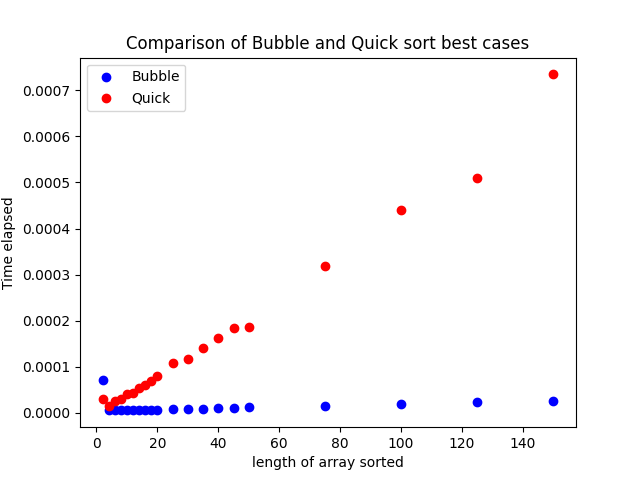
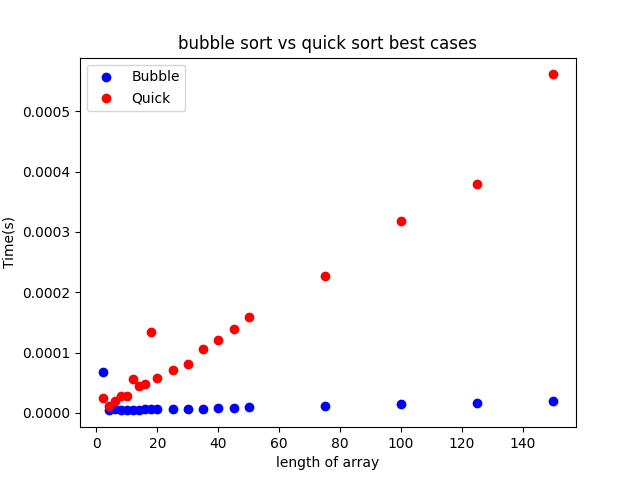
ex2 done

diff --git a/Lab03/ex2.py b/Lab03/ex2.py
@@ -43,25 +43,25 @@ for x in range(20):
     averageQuick.append(timeit.timeit(lambda: quickSort(test2,0,len(test2)-1), number=1))
 plt.scatter(choices,bestBubble,color = 'blue')
 plt.scatter(choices,averageQuick,color = 'red')
-plt.xlabel("length of array sorted")
-plt.ylabel("Time elapsed")
-plt.title("Comparison of Bubble and Quick sort best cases")
+plt.xlabel("length of array")
+plt.ylabel("Time(s)")
+plt.title("bubble sort vs quick sort best cases")
 plt.legend(["Bubble","Quick"])
 plt.savefig("ex2.bestCases.png")
 plt.clf()
 plt.scatter(choices,averageBubble,color = 'blue')
 plt.scatter(choices,averageQuick,color = 'red')
-plt.xlabel("length of array sorted")
-plt.ylabel("Time elapsed")
-plt.title("Comparison of Bubble and Quick sort average cases")
+plt.xlabel("length of array")
+plt.ylabel("Time (s)")
+plt.title("bubble sort vs quick sort average cases")
 plt.legend(["Bubble","Quick"])
 plt.savefig("ex2.averageCases.png")
 plt.clf()
 plt.scatter(choices,worstBubble,color = 'blue')
 plt.scatter(choices,worstQuick,color = 'red')
-plt.xlabel("length of array sorted")
-plt.ylabel("Time elapsed")
-plt.title("Comparison of Bubble and Quick sort worst cases")
+plt.xlabel("length of array")
+plt.ylabel("Time(S)")
+plt.title("bubble sort vs quick sort worst cases")
 plt.legend(["Bubble","Quick"])
 plt.savefig("ex2.worstCases.png")
 plt.clf()
